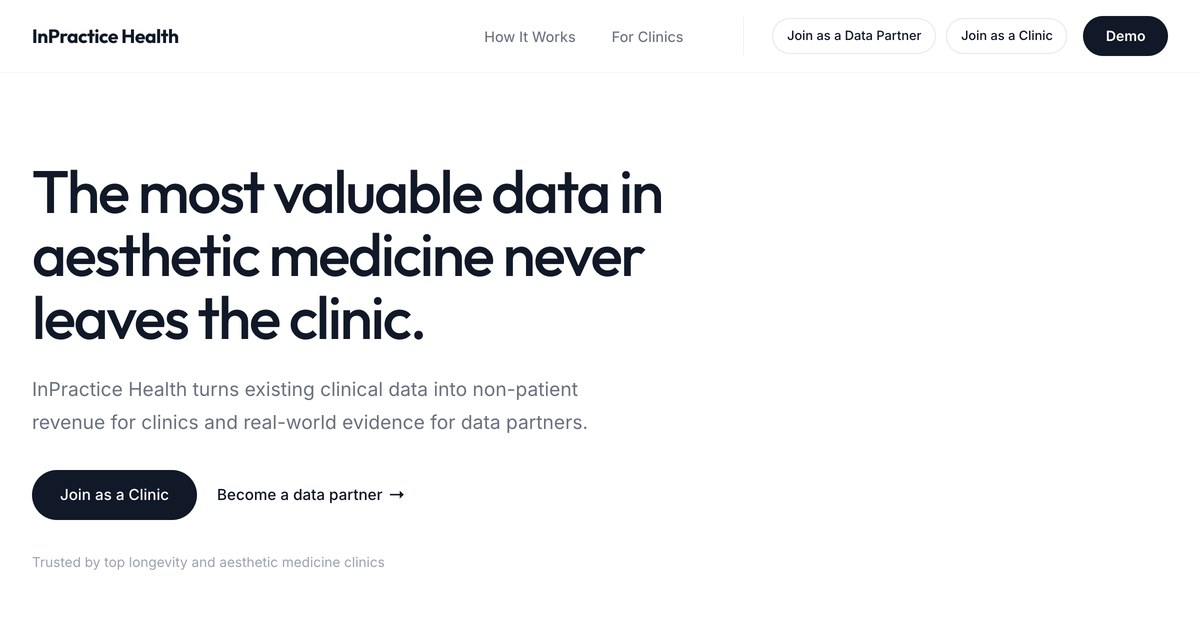
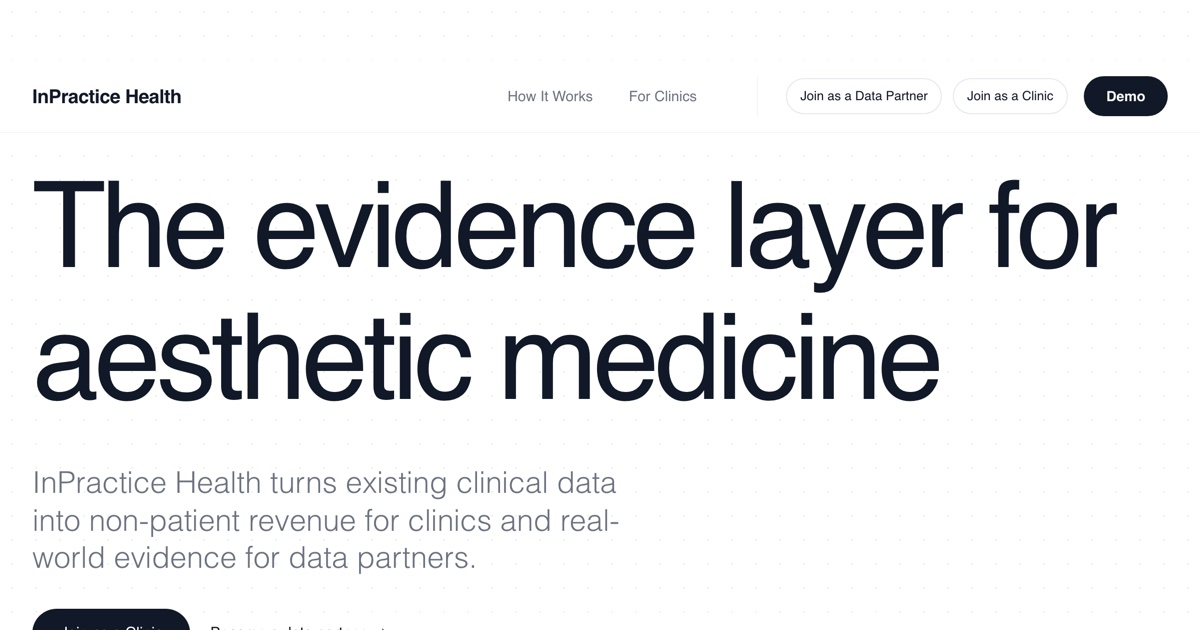
changes

diff --git a/demo.html b/demo.html
@@ -8,6 +8,12 @@
     <meta name="description" content="Preview the intelligence layer that turns de-identified clinical data into actionable findings.">
     <meta name="robots" content="noindex, nofollow">
 
+    <link rel="icon" type="image/svg+xml" href="assets/favicon.svg">
+    <link rel="icon" type="image/png" sizes="32x32" href="assets/favicon-32.png">
+    <link rel="icon" type="image/png" sizes="16x16" href="assets/favicon-16.png">
+    <link rel="apple-touch-icon" sizes="180x180" href="assets/apple-touch-icon.png">
+    <link rel="shortcut icon" href="assets/favicon.ico">
+
     <link rel="preconnect" href="https://fonts.googleapis.com">
     <link rel="preconnect" href="https://fonts.gstatic.com" crossorigin>
     <link href="https://fonts.googleapis.com/css2?family=Inter:wght@300;400;450;500;600&family=Outfit:wght@300;400;500;600;700&display=swap" rel="stylesheet">

diff --git a/about.html b/about.html
@@ -27,6 +27,12 @@
     <meta name="twitter:image" content="https://www.inpracticehealth.com/assets/og-share-hero.jpg">
     <meta name="twitter:image:alt" content="InPractice Health: data infrastructure for aesthetic and longevity medicine.">
 
+    <link rel="icon" type="image/svg+xml" href="assets/favicon.svg">
+    <link rel="icon" type="image/png" sizes="32x32" href="assets/favicon-32.png">
+    <link rel="icon" type="image/png" sizes="16x16" href="assets/favicon-16.png">
+    <link rel="apple-touch-icon" sizes="180x180" href="assets/apple-touch-icon.png">
+    <link rel="shortcut icon" href="assets/favicon.ico">
+
     <link rel="preconnect" href="https://fonts.googleapis.com">
     <link rel="preconnect" href="https://fonts.gstatic.com" crossorigin>
     <link

diff --git a/contact.html b/contact.html
@@ -27,6 +27,12 @@
     <meta name="twitter:image" content="https://www.inpracticehealth.com/assets/og-share-hero.jpg">
     <meta name="twitter:image:alt" content="InPractice Health: data infrastructure for aesthetic and longevity medicine.">
 
+    <link rel="icon" type="image/svg+xml" href="assets/favicon.svg">
+    <link rel="icon" type="image/png" sizes="32x32" href="assets/favicon-32.png">
+    <link rel="icon" type="image/png" sizes="16x16" href="assets/favicon-16.png">
+    <link rel="apple-touch-icon" sizes="180x180" href="assets/apple-touch-icon.png">
+    <link rel="shortcut icon" href="assets/favicon.ico">
+
     <link rel="preconnect" href="https://fonts.googleapis.com">
     <link rel="preconnect" href="https://fonts.gstatic.com" crossorigin>
     <link

diff --git a/terms-of-service.html b/terms-of-service.html
@@ -23,6 +23,12 @@
     <meta name="twitter:description" content="Terms of Service for InPractice Health.">
     <meta name="twitter:image" content="https://www.inpracticehealth.com/assets/og-share-hero.jpg">
 
+    <link rel="icon" type="image/svg+xml" href="assets/favicon.svg">
+    <link rel="icon" type="image/png" sizes="32x32" href="assets/favicon-32.png">
+    <link rel="icon" type="image/png" sizes="16x16" href="assets/favicon-16.png">
+    <link rel="apple-touch-icon" sizes="180x180" href="assets/apple-touch-icon.png">
+    <link rel="shortcut icon" href="assets/favicon.ico">
+
     <link rel="preconnect" href="https://fonts.googleapis.com">
     <link rel="preconnect" href="https://fonts.gstatic.com" crossorigin>
     <link

diff --git a/privacy-policy.html b/privacy-policy.html
@@ -23,6 +23,12 @@
     <meta name="twitter:description" content="Privacy Policy for InPractice Health.">
     <meta name="twitter:image" content="https://www.inpracticehealth.com/assets/og-share-hero.jpg">
 
+    <link rel="icon" type="image/svg+xml" href="assets/favicon.svg">
+    <link rel="icon" type="image/png" sizes="32x32" href="assets/favicon-32.png">
+    <link rel="icon" type="image/png" sizes="16x16" href="assets/favicon-16.png">
+    <link rel="apple-touch-icon" sizes="180x180" href="assets/apple-touch-icon.png">
+    <link rel="shortcut icon" href="assets/favicon.ico">
+
     <link rel="preconnect" href="https://fonts.googleapis.com">
     <link rel="preconnect" href="https://fonts.gstatic.com" crossorigin>
     <link

diff --git a/index.html b/index.html
@@ -29,6 +29,12 @@
     <meta name="twitter:image:alt"
         content="InPractice Health: homepage hero with headline and sample de-identified clinical insight cards.">
 
+    <link rel="icon" type="image/svg+xml" href="assets/favicon.svg">
+    <link rel="icon" type="image/png" sizes="32x32" href="assets/favicon-32.png">
+    <link rel="icon" type="image/png" sizes="16x16" href="assets/favicon-16.png">
+    <link rel="apple-touch-icon" sizes="180x180" href="assets/apple-touch-icon.png">
+    <link rel="shortcut icon" href="assets/favicon.ico">
+
     <link rel="preconnect" href="https://fonts.googleapis.com">
     <link rel="preconnect" href="https://fonts.gstatic.com" crossorigin>
     <link
